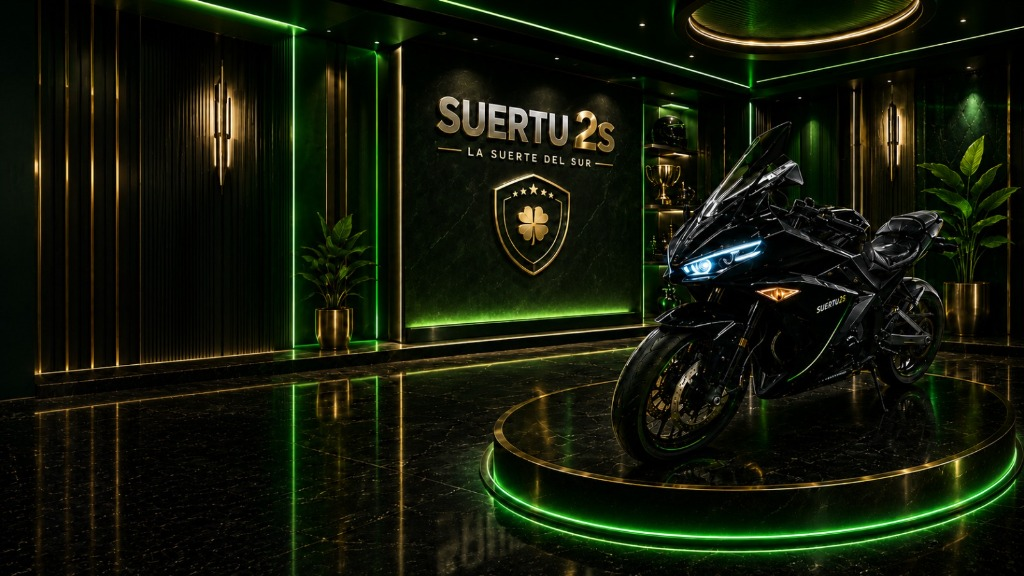
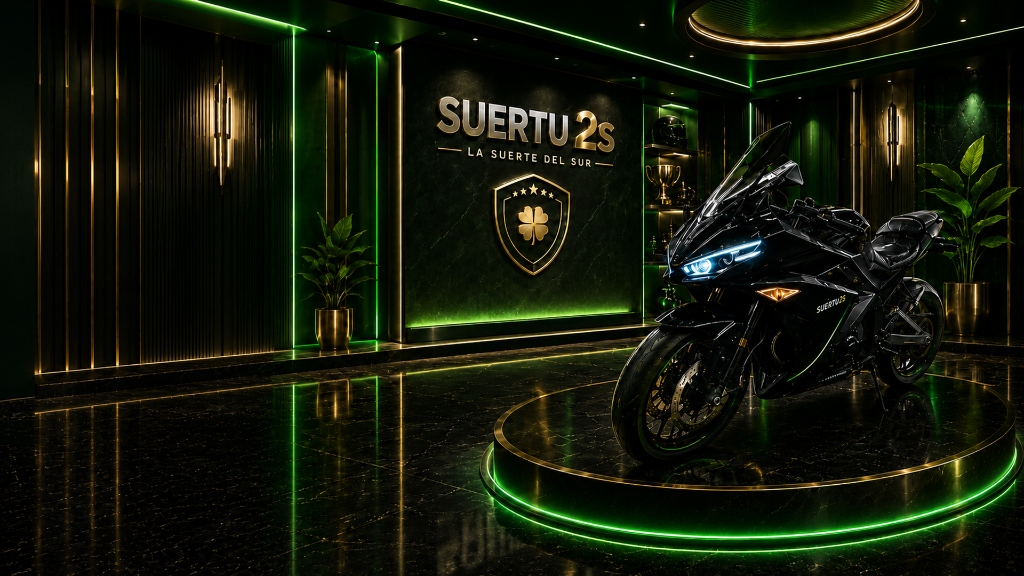
style: replace hero showroom background with ultra high-res 334KB image and GPU enhancement filters

diff --git a/v2/src/components/home/Hero.tsx b/v2/src/components/home/Hero.tsx
@@ -133,20 +133,20 @@ export function Hero() {
   }, []);
 
   return (
-    <div className="relative w-full min-h-[520px] md:min-h-[calc(100vh-100px)] flex items-center overflow-hidden py-8 md:py-12">
-      {/* Showroom Background Image */}
-      <div className="absolute inset-0 z-0">
+    <div className="relative w-full min-h-[550px] md:min-h-[calc(100vh-100px)] flex items-center overflow-hidden py-8 md:py-12">
+      {/* Showroom Background Image - High-Res 334KB Uncompressed */}
+      <div className="absolute inset-0 z-0 select-none">
         <Image
           src="/images/hero-showroom.jpg"
           alt="Suertu2s Showroom Moto Corsa R150"
           fill
           priority
           unoptimized
-          className="object-cover object-[80%_center] md:object-center filter brightness-[1.08] contrast-[1.05]"
+          className="object-cover object-[82%_center] md:object-center filter brightness-[1.02] contrast-[1.04] saturate-[1.06] transform-gpu"
         />
         {/* Soft, localized gradient overlay behind left text only */}
-        <div className="absolute inset-y-0 left-0 w-full md:w-[52%] bg-gradient-to-r from-[#030a05]/95 via-[#030a05]/65 to-transparent pointer-events-none" />
-        <div className="absolute inset-x-0 bottom-0 h-16 bg-gradient-to-t from-[#030a05] to-transparent pointer-events-none" />
+        <div className="absolute inset-y-0 left-0 w-full md:w-[48%] bg-gradient-to-r from-[#030a05]/92 via-[#030a05]/50 to-transparent pointer-events-none" />
+        <div className="absolute inset-x-0 bottom-0 h-14 bg-gradient-to-t from-[#030a05] to-transparent pointer-events-none" />
       </div>
 
       <section
